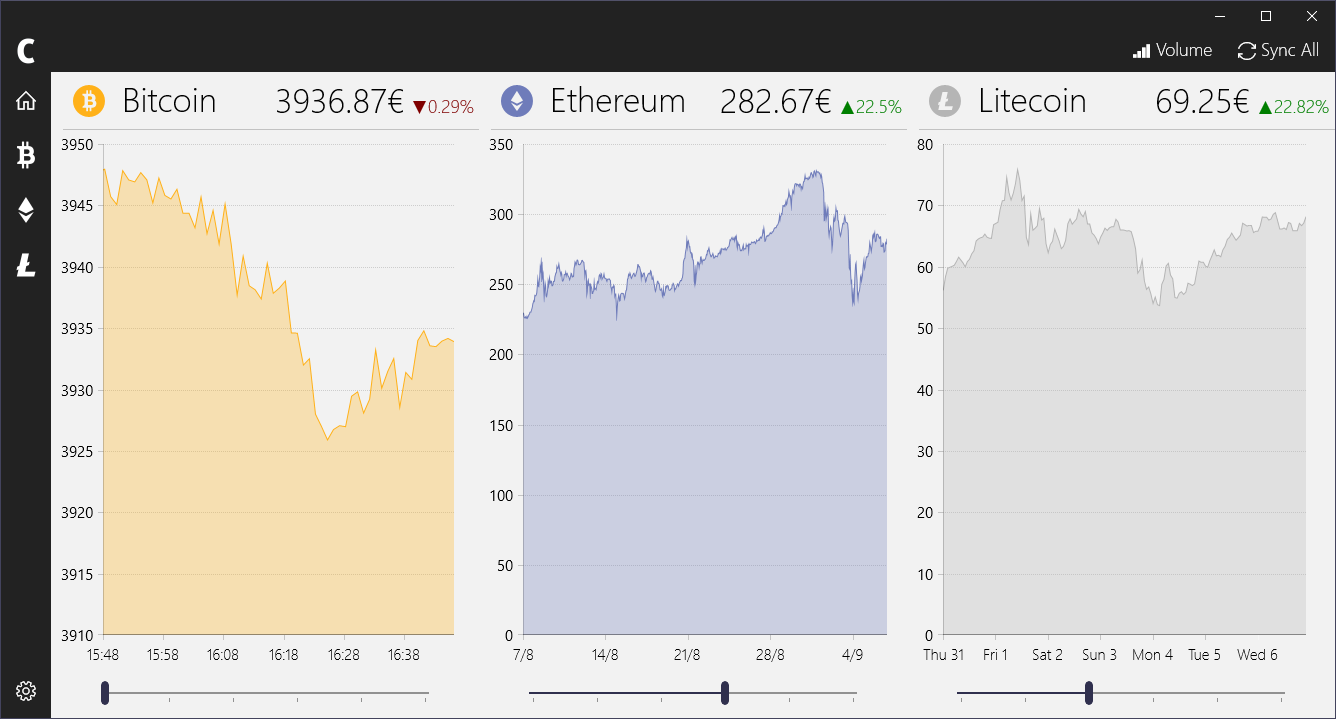
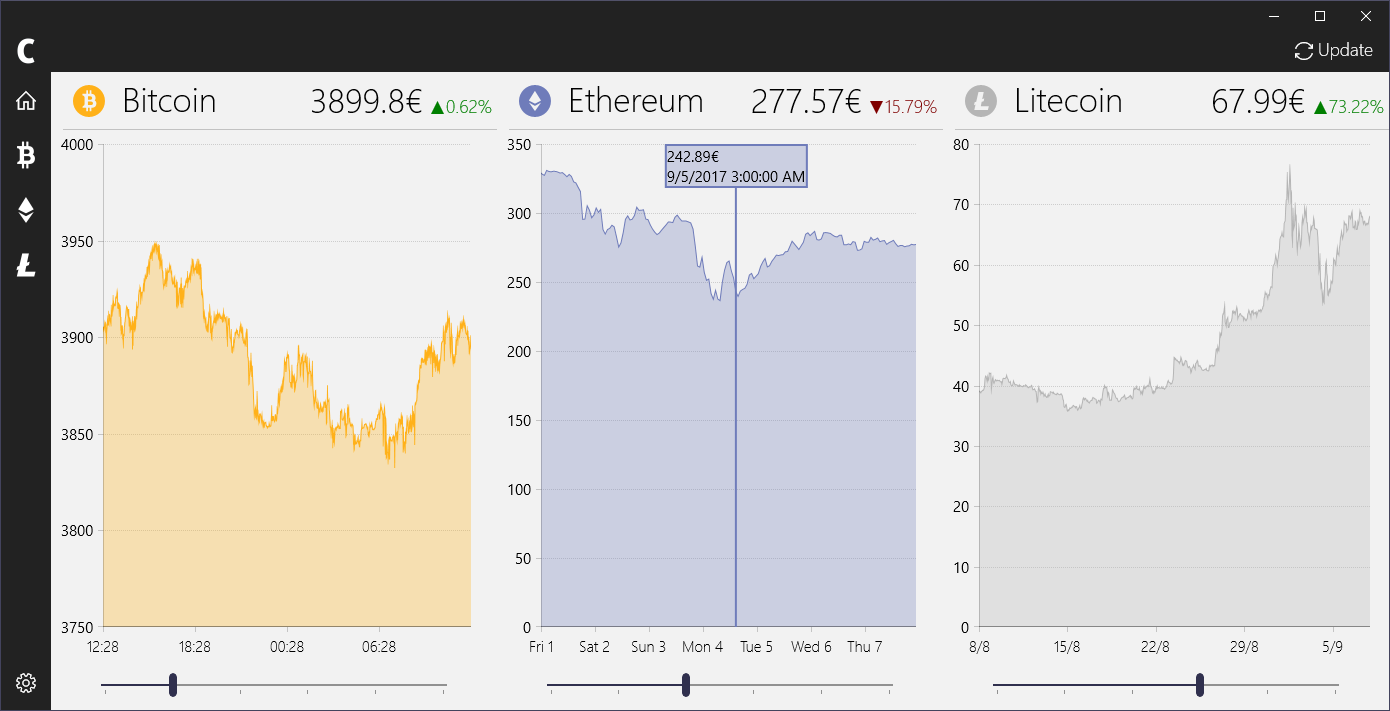
Version 1.4

diff --git a/CoinBase Unofficial/Page_Settings.xaml b/CoinBase Unofficial/Page_Settings.xaml
@@ -23,7 +23,7 @@
                 <ComboBoxItem Content="MXN" Name="MXN" />
             </ComboBox>
 
-            <Button Background="Transparent" x:Name="reviewButton" Click="reviewButton_Click" Margin="-20,40,0,0">
+            <Button Background="Transparent" x:Name="reviewButton" Click="reviewButton_Click" Margin="-20,40,0,0" Visibility="Collapsed">
                 <StackPanel Orientation="Horizontal">
                     <TextBlock Text="&#xE1CE;" FontFamily="Segoe MDL2 Assets" Margin="10,0" FontSize="25"/>
                     <TextBlock Text="Review" FontFamily="Segoe UI Light" FontWeight="Light" FontSize="25"/>
@@ -31,7 +31,7 @@
                 </StackPanel>
             </Button>
 
-            <Button Background="Transparent" x:Name="feedbackButton" Click="feedbackButton_Click" Margin="-20,0,0,0">
+            <Button Background="Transparent" x:Name="feedbackButton" Click="feedbackButton_Click" Margin="-20,40,0,0">
                 <StackPanel Orientation="Horizontal">
                     <TextBlock Text="&#xE939;" FontFamily="Segoe MDL2 Assets" Margin="10,0"   FontSize="25"/>
                     <TextBlock Text="Feedback" FontFamily="Segoe UI Light" FontWeight="Light" FontSize="25"/>
@@ -52,7 +52,7 @@
             <Image Source="Assets/coinbase.png" Width="50" HorizontalAlignment="Left" Margin="0, 10"/>
             <TextBlock Text="CoinBase Unnoficial" Style="{ThemeResource FlyoutPickerTitleTextBlockStyle}"/>
             <TextBlock Text="By Ismael Estalayo" Style="{ThemeResource BodyTextBlockStyle}"/>
-            <TextBlock Text="Version: 1.3.0" />
+            <TextBlock Text="Version: 1.4.0" />
             <HyperlinkButton NavigateUri="http://ismaelestalayo.github.io/" 
                              Content    ="http://ismaelestalayo.github.io/" Margin="0, -6, 0, 0"/>
         </StackPanel>

diff --git a/CoinBase Unofficial/MainPage.xaml b/CoinBase Unofficial/MainPage.xaml
@@ -38,7 +38,7 @@
 				   RelativePanel.AlignVerticalCenterWithPanel="True" />
             </Button>
 
-            <Button Name="ShowVolumeChartButton" Click="ShowVolumeChartButton_Click"
+            <Button Name="ShowVolumeChartButton" Click="ShowVolumeChartButton_Click" Visibility="Collapsed"
 					Background="Transparent" BorderBrush="Transparent"
 					RelativePanel.AlignVerticalCenterWithPanel="True"
 					RelativePanel.LeftOf="SyncAllButton">
@@ -51,14 +51,14 @@
                 </StackPanel>
             </Button>
 
-            <Button Name="SyncAllButton" Click="SyncAllButton_Click"
+            <Button Name="SyncAllButton" Click="UpdateButton_Click"
 					Background="Transparent" BorderBrush="Transparent"
 					RelativePanel.AlignVerticalCenterWithPanel="True"
 					RelativePanel.AlignRightWithPanel="True">
                 <StackPanel Orientation="Horizontal">
                     <TextBlock VerticalAlignment="Center" Margin="0,5"
 							   FontFamily="Segoe MDL2 Assets" Text="&#xE117;" Foreground="White" FontSize="18" />
-                    <TextBlock Text="Sync All"
+                    <TextBlock Text="Update"
 							   Foreground="White" Margin="5,0"
 							   FontWeight="Light" FontSize="18" />
                 </StackPanel>

diff --git a/CoinBase Unofficial/DeviceFamily-Mobile/Page_LTC.xaml b/CoinBase Unofficial/DeviceFamily-Mobile/Page_LTC.xaml
@@ -123,7 +123,7 @@
                         <telerik:ChartTrackBallBehavior.InfoStyle>
                             <Style TargetType="telerikPrimitives:TrackBallInfoControl">
                                 <Setter Property="Background" Value="{StaticResource LTC_colorLight}"/>
-                                <Setter Property="Foreground" Value="{ThemeResource ApplicationHeaderForegroundThemeBrush}"/>
+                                <Setter Property="Foreground" Value="Black"/>
                                 <Setter Property="BorderBrush" Value="{StaticResource LTC_color}"/>
                                 <Setter Property="FontWeight" Value="Light"/>
                             </Style>
@@ -208,7 +208,7 @@
 
                 <telerik:BarSeries.PointTemplate>
                     <DataTemplate>
-                        <Border Background="{StaticResource LTC_colorLight}"/>
+                        <Border Background="{StaticResource LTC_color}"/>
                     </DataTemplate>
                 </telerik:BarSeries.PointTemplate>
                 

diff --git a/CoinBase Unofficial/DeviceFamily-Mobile/Page_ETH.xaml b/CoinBase Unofficial/DeviceFamily-Mobile/Page_ETH.xaml
@@ -122,7 +122,7 @@
                         <telerik:ChartTrackBallBehavior.InfoStyle>
                             <Style TargetType="telerikPrimitives:TrackBallInfoControl">
                                 <Setter Property="Background" Value="{StaticResource ETH_colorLight}"/>
-                                <Setter Property="Foreground" Value="{ThemeResource ApplicationHeaderForegroundThemeBrush}"/>
+                                <Setter Property="Foreground" Value="Black"/>
                                 <Setter Property="BorderBrush" Value="{StaticResource ETH_color}"/>
                                 <Setter Property="FontWeight" Value="Light"/>
                             </Style>
@@ -207,7 +207,7 @@
 
                 <telerik:BarSeries.PointTemplate>
                     <DataTemplate>
-                        <Border Background="{StaticResource ETH_colorLight}"/>
+                        <Border Background="{StaticResource ETH_color}"/>
                     </DataTemplate>
                 </telerik:BarSeries.PointTemplate>
 

diff --git a/CoinBase Unofficial/DeviceFamily-Mobile/MainPage.xaml b/CoinBase Unofficial/DeviceFamily-Mobile/MainPage.xaml
@@ -36,14 +36,14 @@
 				   RelativePanel.AlignVerticalCenterWithPanel="True" />
             </Button>
 
-            <Button Name="SyncAllButton" Click="SyncAllButton_Click"
+            <Button Name="SyncAllButton" Click="UpdateButton_Click"
 					Background="Transparent" BorderBrush="Transparent"
 					RelativePanel.AlignVerticalCenterWithPanel="True"
 					RelativePanel.AlignRightWithPanel="True">
                 <StackPanel Orientation="Horizontal">
                     <TextBlock VerticalAlignment="Center" Margin="0, 4"
 							   FontFamily="Segoe MDL2 Assets" Text="&#xE117;" Foreground="White" FontSize="18" />
-                    <TextBlock Text="Sync All"
+                    <TextBlock Text="Update"
 							   Foreground="White" Margin="5,0"
 							   FontWeight="Light" FontSize="18" />
                 </StackPanel>

diff --git a/CoinBase Unofficial/Page_BTC.xaml b/CoinBase Unofficial/Page_BTC.xaml
@@ -210,7 +210,7 @@
                     
                     <telerik:BarSeries.PointTemplate>
                         <DataTemplate>
-                            <Border Background="{StaticResource BTC_colorLight}"/>
+                            <Border Background="{StaticResource BTC_color}"/>
                         </DataTemplate>
                     </telerik:BarSeries.PointTemplate>
 

diff --git a/CoinBase Unofficial/Page_ETH.xaml b/CoinBase Unofficial/Page_ETH.xaml
@@ -211,7 +211,7 @@
                     
                     <telerik:BarSeries.PointTemplate>
                         <DataTemplate>
-                            <Border Background="{StaticResource ETH_colorLight}"/>
+                            <Border Background="{StaticResource ETH_color}"/>
                         </DataTemplate>
                     </telerik:BarSeries.PointTemplate>
 

diff --git a/CoinBase Unofficial/Page_LTC.xaml b/CoinBase Unofficial/Page_LTC.xaml
@@ -210,7 +210,7 @@
 
                     <telerik:BarSeries.PointTemplate>
                         <DataTemplate>
-                            <Border Background="{StaticResource LTC_colorLight}"/>
+                            <Border Background="{StaticResource LTC_color}"/>
                         </DataTemplate>
                     </telerik:BarSeries.PointTemplate>
 

diff --git a/CoinBase Unofficial/DeviceFamily-Mobile/Page_BTC.xaml b/CoinBase Unofficial/DeviceFamily-Mobile/Page_BTC.xaml
@@ -215,7 +215,7 @@
 
                 <telerik:BarSeries.PointTemplate>
                     <DataTemplate>
-                        <Border Background="{StaticResource BTC_colorLight}"/>
+                        <Border Background="{StaticResource BTC_color}"/>
                     </DataTemplate>
                 </telerik:BarSeries.PointTemplate>
 

diff --git a/CoinBase Unofficial/MainPage.xaml.cs b/CoinBase Unofficial/MainPage.xaml.cs
@@ -68,7 +68,7 @@ namespace CoinBase {
         }
 
         ////////////////////////////////////////////////////////////////////////////////////////
-        private void SyncAllButton_Click(object sender, RoutedEventArgs e) {
+        private void UpdateButton_Click(object sender, RoutedEventArgs e) {
             SyncAll();
         }
 
